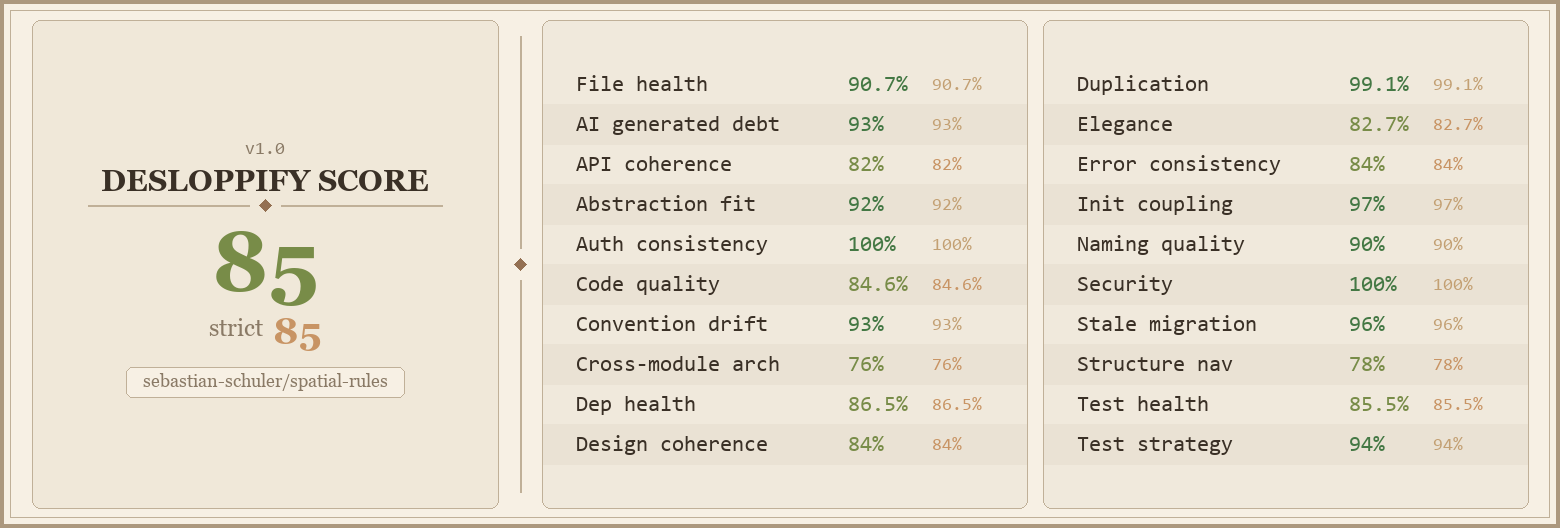
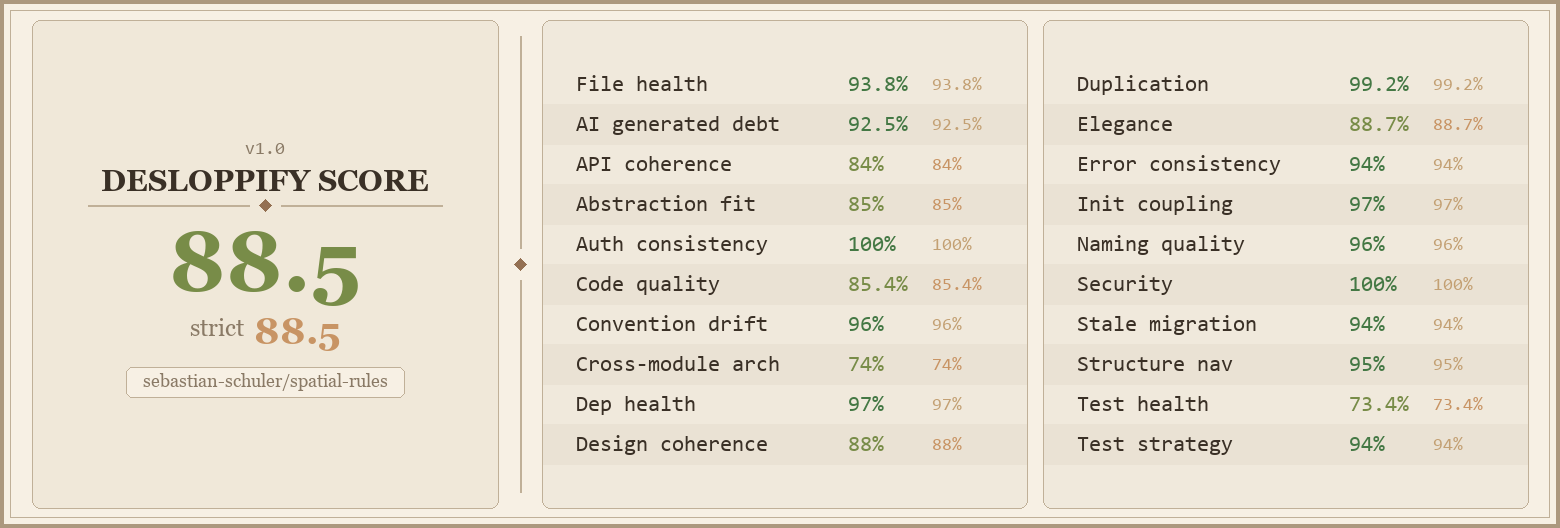
desloppify: address re-review findings on docs, benchmark default surface, and naming
From the second-wave holistic review of the improved code:
- Core's benchmark feature is now opt-in (default = []), so ordinary consumers
  get the single Ruleset::build boundary; the benchmark crate and core's own
  index-parity tests enable it explicitly (CI's workspace build unifies it).
- docs/test-matrix.md, CONTRIBUTING.md, python/wasm module docs, and ADR-0019
  now reference the nested module paths, the replaceFromCanonical name, and the
  shared bindings-common boundary.
- Renamed the misleading on_hold relator callback to on_touched_rule.

All workspace tests and clippy pass.

diff --git a/core/src/runtime/ruleset.rs b/core/src/runtime/ruleset.rs
@@ -7,10 +7,10 @@ use geo::{BoundingRect, Geometry, Rect};
 
 use crate::model::candidate::Candidate;
 pub use crate::runtime::evaluate::PreparedQuery;
-#[cfg(feature = "benchmark")]
+#[cfg(any(test, feature = "benchmark"))]
 use geo::PreparedGeometry;
 use crate::error::{ErrorCode, SpatialError};
-#[cfg(feature = "benchmark")]
+#[cfg(any(test, feature = "benchmark"))]
 use crate::indexing::prepared_cache::PreparedGeometries;
 use crate::indexing::prepared_cache::{next_ruleset_id, PreparedMemo};
 use crate::indexing::property_index::{EqualityIndex, PropertyIndex};
@@ -67,7 +67,7 @@ impl Ruleset {
     /// Only available behind the `benchmark` cargo feature (and in tests): it
     /// exists so the benchmark crate can swap index implementations; the
     /// production boundary is [`Ruleset::build`].
-    #[cfg(feature = "benchmark")]
+    #[cfg(any(test, feature = "benchmark"))]
     pub fn build_with(
         rules: Vec<Rule>,
         index_kind: SpatialIndexKind,
@@ -316,7 +316,7 @@ impl Ruleset {
     /// ladder consumes (ADR-0002). It replaces the two ladder-only positional
     /// accessors (`rule_ids`/`rule_geometries`); the per-id accessors
     /// (`geometry`, `envelope`, `properties`) remain for the binding.
-    #[cfg(feature = "benchmark")]
+    #[cfg(any(test, feature = "benchmark"))]
     pub fn rules(&self) -> RuleSource<'_> {
         RuleSource {
             rules: &self.rules,
@@ -334,7 +334,7 @@ impl Ruleset {
     /// This is the eager seam: calling it force-prepares every rule. The
     /// query path instead prepares lazily, per rule on first touch
     /// (memory-benchmark ticket 02).
-    #[cfg(feature = "benchmark")]
+    #[cfg(any(test, feature = "benchmark"))]
     pub fn prepared(&self) -> PreparedRuleGeometries {
         PreparedRuleGeometries {
             inner: PreparedMemo::for_ruleset(&self.rules, self.id).snapshot_all(self.id),
@@ -409,7 +409,7 @@ impl Ruleset {
 /// envelope per rule. The seam the benchmark ladder consumes (ADR-0002) — it
 /// replaces raw positional accessors, so the ruleset stops advertising its
 /// storage layout.
-#[cfg(feature = "benchmark")]
+#[cfg(any(test, feature = "benchmark"))]
 pub struct RuleSource<'a> {
     rules: &'a [Rule],
     envelopes: &'a [Rect<f64>],
@@ -438,7 +438,7 @@ impl crate::runtime::access::RuleAccess for Ruleset {
     }
 }
 
-#[cfg(feature = "benchmark")]
+#[cfg(any(test, feature = "benchmark"))]
 impl<'a> RuleSource<'a> {
     /// Iterate over `(id, geometry, envelope)` in ruleset order.
     pub fn iter(&self) -> impl Iterator<Item = (RuleId, &'a Geometry<f64>, &'a Rect<f64>)> {
@@ -461,13 +461,13 @@ impl<'a> RuleSource<'a> {
 /// A handle to one ruleset's prepared rule geometries (ADR-0010), indexed by
 /// opaque [`RuleId`]. Callers fetch a rule's prepared form by id without ever
 /// reading the numeric position (architecture-hardening 04).
-#[cfg(feature = "benchmark")]
+#[cfg(any(test, feature = "benchmark"))]
 pub struct PreparedRuleGeometries {
     inner: PreparedGeometries,
     owner: u64,
 }
 
-#[cfg(feature = "benchmark")]
+#[cfg(any(test, feature = "benchmark"))]
 impl PreparedRuleGeometries {
     /// The prepared DE-9IM geometry for a rule by opaque [`RuleId`], or `None`
     /// for an out-of-range or foreign id.

diff --git a/core/src/runtime/evaluate.rs b/core/src/runtime/evaluate.rs
@@ -306,8 +306,8 @@ impl<'a> PreparedQuery<'a> {
 
     /// The shared relate step of the fixed pipeline (bbox → property → exact
     /// DE-9IM): fill the scratch buffer with the candidate-touching, admitted
-    /// rules, lazily prepare them, and invoke `on_hold(rule_id, matrix)` for
-    /// each in envelope order. Both the match and resolve paths layer their
+    /// rules, lazily prepare them, and invoke `on_touched_rule(rule_id, matrix)`
+    /// for each in envelope order. Both the match and resolve paths layer their
     /// per-rule action on this one loop; the mask hot path is unchanged
     /// because the closure does the same per-rule work it always did.
     ///
@@ -318,7 +318,7 @@ impl<'a> PreparedQuery<'a> {
     /// or not the memo was already warm. Warm batches find everything
     /// prepared: `ensure` skips every slot fill and the loop adds one
     /// predicted `None` check per touched rule.
-    fn relate_touched<F>(&self, candidate: &Candidate, bbox: &Rect<f64>, mut on_hold: F)
+    fn relate_touched<F>(&self, candidate: &Candidate, bbox: &Rect<f64>, mut on_touched_rule: F)
     where
         F: FnMut(RuleId, &IntersectionMatrix),
     {
@@ -333,7 +333,7 @@ impl<'a> PreparedQuery<'a> {
                     .as_ref()
                     .expect("touched rules are prepared");
                 let matrix = candidate.geometry().relate(prepared);
-                on_hold(rule_id, &matrix);
+                on_touched_rule(rule_id, &matrix);
             }
         }
     }

diff --git a/core/src/indexing/prepared_cache.rs b/core/src/indexing/prepared_cache.rs
@@ -33,7 +33,7 @@ type PreparedSlots = Rc<RefCell<Vec<PreparedSlot>>>;
 
 /// Dense fully-prepared snapshot (the eager seam's contract): every rule
 /// prepared, indexed by rule position.
-#[cfg(feature = "benchmark")]
+#[cfg(any(test, feature = "benchmark"))]
 pub(crate) type PreparedGeometries = Rc<Vec<PreparedGeometryOwned>>;
 
 /// Assigns each `Ruleset` a unique identity, used as the per-thread cache key.
@@ -104,7 +104,7 @@ impl<'a> PreparedMemo<'a> {
     /// order — the eager seam's contract (`len() == rule count`, `get(id)`
     /// valid for any id, minted by `owner`). Called by `Ruleset::prepared`,
     /// never by the query path.
-    #[cfg(feature = "benchmark")]
+    #[cfg(any(test, feature = "benchmark"))]
     pub(crate) fn snapshot_all(&self, owner: u64) -> PreparedGeometries {
         let all: Vec<RuleId> = (0..self.rules.len())
             .map(|index| RuleId::new(index as u32, owner))

diff --git a/core/src/indexing/spatial_index.rs b/core/src/indexing/spatial_index.rs
@@ -33,7 +33,7 @@ pub enum SpatialIndexKind {
     RStar,
     /// Linear envelope scan — retained as the ladder baseline (only reachable
     /// behind the `benchmark` feature / in tests).
-    #[cfg_attr(not(feature = "benchmark"), allow(dead_code))]
+    #[cfg_attr(not(any(test, feature = "benchmark")), allow(dead_code))]
     LinearScan,
 }
 

diff --git a/python/src/lib.rs b/python/src/lib.rs
@@ -1,4 +1,4 @@
-//! Python binding for `spatial-rules-core` (`.scratch/wasm`, ticket 02).
+//! Python binding for `spatial-rules-core` (PyO3 + maturin, PyPI `spatial-rules`).
 //!
 //! The full Engine surface — query/resolve (mask `list[int]`), rich outcomes
 //! (`list[dict]`), and the clock-backed `replace`/`to_canonical`/`stats` —

diff --git a/wasm/src/lib.rs b/wasm/src/lib.rs
@@ -1,4 +1,4 @@
-//! WASM binding for `spatial-rules-core` (`.scratch/wasm`, ticket 01).
+//! WASM binding for `spatial-rules-core` (wasm-bindgen, npm `spatial-rules-wasm`).
 //!
 //! **Ruleset-level surface only**: build once, then `query`/`resolve` (mask +
 //! rich JSON) and `toCanonical`. No `Engine` `replace`/`stats` (their

diff --git a/docs/test-matrix.md b/docs/test-matrix.md
@@ -11,13 +11,13 @@ below is unchanged; only the duplication moved into that module.
 
 | Area | Test file | What it owns |
 | ---- | --------- | ------------ |
-| Where operators (`$eq/$ne/$gt/$gte/$lt/$lte/$in/$nin/$exists/$not`, `$and`/`$or`) | `core/tests/query.rs`, `core/src/where_expr.rs` (unit) | parse + eval semantics, missing/type-mismatch = non-match, indexability |
-| Spatial predicates (`intersects/contains/within/covers/covered_by/touches/overlaps`) | `core/tests/query.rs`, `core/src/ruleset.rs` (unit) | directional DE-9IM semantics, boundary-touch cases |
+| Where operators (`$eq/$ne/$gt/$gte/$lt/$lte/$in/$nin/$exists/$not`, `$and`/`$or`) | `core/tests/query.rs`, `core/src/model/where_expr.rs` (unit) | parse + eval semantics, missing/type-mismatch = non-match, indexability |
+| Spatial predicates (`intersects/contains/within/covers/covered_by/touches/overlaps`) | `core/tests/query.rs`, `core/src/runtime/ruleset.rs` (unit) | directional DE-9IM semantics, boundary-touch cases |
 | Overlap area/ratio (`includeOverlap`) | `core/tests/query.rs` | geodesic metrics, ratio bounds, mask invariance, alignment |
-| Ruleset build/validation | `core/tests/ruleset.rs`, `core/src/validation.rs` (unit) | ids, envelopes, spatial index, property index, invalid geometry |
-| Canonical persistence | `core/tests/ruleset.rs`, `core/tests/engine.rs`, `core/src/ruleset.rs` (unit) | round-trip, fresh id, failed load keeps old ruleset |
+| Ruleset build/validation | `core/tests/ruleset.rs`, `core/src/model/validation.rs` (unit) | ids, envelopes, spatial index, property index, invalid geometry |
+| Canonical persistence | `core/tests/ruleset.rs`, `core/tests/engine.rs`, `core/src/runtime/ruleset.rs` (unit) | round-trip, fresh id, failed load keeps old ruleset |
 | Engine replacement/concurrency | `core/tests/engine.rs` | atomic swap, snapshot semantics, cache invalidation |
-| Ingestion | `core/src/ingestion.rs` (unit), `core/tests/edge_matrix.rs` | feature→rule/candidate, id extraction, malformed input |
+| Ingestion | `core/src/runtime/ingestion.rs` (unit), `core/tests/edge_matrix.rs` | feature→rule/candidate, id extraction, malformed input |
 | Error model | `core/src/error.rs` (unit), `core/tests/error_matrix.rs` | every `SR_*` code reachable by a documented input |
 | Edge/input matrix | `core/tests/edge_matrix.rs` | empty, missing id, BOM, NaN/Infinity, antimeridian, unsupported types, skipped property types |
 | Property invariants | `core/tests/proptest.rs` | DE-9IM identities, `WhereExpr` eval totality, batch alignment on random inputs |

diff --git a/docs/adr/0019-wasm-and-python-distribution.md b/docs/adr/0019-wasm-and-python-distribution.md
@@ -34,8 +34,8 @@ identical everywhere; only the packaging and the set of Engine methods differ.
   observability is real, not degenerate.
 - Internally serializes to exactly the JSON the napi/wasm paths use, so
   semantics are identical across Node/wasm/Python. The rich-JSON serializers
-  live in a shared `spatial-rules-bindings-common` crate used by the wasm and
-  Python bindings (the node addon's copy stays inline, out of scope).
+  live in a shared `spatial-rules-bindings-common` crate used by all three
+  bindings (see the superseding note below).
 
 ## Build/CI and release
 

diff --git a/CONTRIBUTING.md b/CONTRIBUTING.md
@@ -53,7 +53,7 @@ Format: `<type>(<scope>): <subject>`
 Examples:
 
 ```
-feat(node): add fromCanonical round-trip
+feat(node): add replaceFromCanonical round-trip
 fix(core): guard empty ruleset against division by zero
 docs: document query shape operators
 ```
